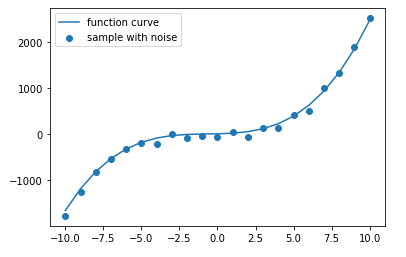
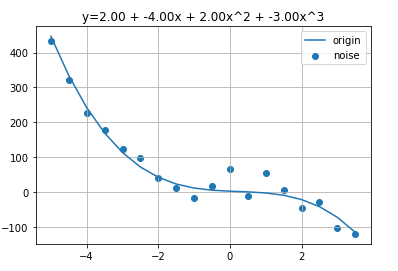
update gd

Changed region(s): [[0.0, 0.0311, 0.9648, 0.965], [0.6633, 0.6226, 0.6935, 0.6537]]

diff --git a/source/_posts/gradient-descent.md b/source/_posts/gradient-descent.md
@@ -15,41 +15,51 @@ tags:
 
 ## 原理
 
-首先确定拟合曲线的函数是怎样的，这里用一元J次方程：
+首先确定拟合曲线的函数是怎样的，这里用一元k次方程：
 
-$y(w_0,w_1...w_j) = w_0 + w_1 x + w_2 x^2 ... + w_j x^j$
+$y(w_0,w_1...w_k) = w_0 + w_1 x + w_2 x^2 ... + w_k x^k = \sum_{n=0}^{k} {w_n}{x^n}$
 
 然后，确定使用最小二乘损失函数：
 
-$L = \sum_{i=0}^{j} \frac{1}{2} (\hat{y_i} - 𝑦_i) ^ 2$
+$L = \sum_{i=0}^{j} \frac{1}{2j} (\hat{y_i} - 𝑦_i) ^ 2$
 
 这里的$\hat{y}$是观测值, $y_i$是理论值(ground truth)，$j$是一次迭代的样本个数。
 
 梯度下降优化，就是对loss函数的每一个w权重分量分别计算梯度，然后每次迭代更新一次梯度。
 
-对于每个w权重的梯度，也就是每个w的偏导数，计算公式是：$\frac{dL}{dw_k}$
+对于每个w权重的梯度，也就是每个$w_g$的偏导数，计算公式是：$\frac{d}{dw_g}L = \frac{d}{dw_g}\sum_{i=0}^{j} \frac{1}{2j} (\hat{y_i} - 𝑦_i) ^ 2$
 
-这里可以使用链式法则，设$a = \frac{1}{2} (\hat{y} - 𝑦) ^ 2$
+这里以$k = 2$, g为1和2的情况为例展开推导，首先算出$(\hat{y} - y)^2 = $
 
-则 $\frac{dL}{dw_k}$ = $\frac{dL}{da} * \frac{da}{dw_k}$
+$( w_0^2 + w_0w_1x + w0w_2^2 - w_0y$
 
-$\frac{dL}{da} = 2a$
+$+ w_0w_1x + w_1^2x^2 + w_1w_2x^3 - w_1xy$
 
-$\frac{da}{dw_k} = \frac{d}{dw_k} \frac{1}{2} (\sum_{j=0}^{n} w_j x^j - y) = x^k (\sum_{i=0}^{j} w_ix^i - y)$
+$+ w_0w_2x^2 + w_1w_2x^3 + w_2^2x^4 - w_2x^2y$
 
-这里以$k = 2$为例展开推导:
+$- w_0y - w_1xy - w_2x^2y + y^2)$
 
-$\frac{da}{dw_2} = \frac{1}{2} (2w_0x^2 + 2w_1x^3 +2w_2x^4 - 2x^2y) = x^2(w_0 + w_1x + w_2x^2 - y)$
+对$w_1$求导后, 得: 
 
-最终得$\frac{dL}{dw_k} = 2x^k (\sum_{i=0}^{j} w_ix^i - y_i)$
+$= (w_0x + w_0x + 2w_1x^2 + w_2x^3 - xy + w_2x^3 - xy)$
 
-因此对于每次batch size为$b$的迭代权重$w_k$的梯度为:
+$= (2w_0x + 2w_1x^2 + 2w_2x^3 - 2xy)$
 
-$gradient(w_k) = \sum_{i=1}^{b}  x_i^k (\sum_{j=0}^{n} w_j x_i^j - y_i)$
+$= 2x(w_0 + w_1x + w_2x^2 - y)$
+
+对$w_2$求导后, 得: 
+
+$= 2x^2(w_0 + w_1x + w_2x^2 - y)$
+
+所以 $\frac{d}{dw_g}L = x^g(\sum_{n=0}^{k} {w_n}{x^n} - y)$
+
+对于每次迭代权重$w_k$的梯度为:
+
+$gradient(w_g) = \sum_{i=1}^{j} \frac{1}{j} x^g(\sum_{n=0}^{k} {w_n}{x^n} - y)$
 
 下面就是权重更新的公式：
 
-$w_k = w_k - \epsilon \frac{dL}{d w_k}$
+$w_k = w_k - \epsilon \frac{dL}{d w_g}$
 
 其中 $\epsilon$ 为学习率。
 
@@ -62,18 +72,12 @@ import math
 import numpy as np
 import matplotlib.pyplot as plt
 
-# 假设曲线方程 2x^3 + 4x^2 + 7x + 1
-ground_truth_coeff = [2, 4, 7, 2]
-
-ground_truth_x = np.linspace(-10, 10, 21)
-ground_truth_y = np.polyval(ground_truth_coeff, ground_truth_x)
+# -3x^3 + 2x^2 + -4x + 2
+ground_truth_w = [-3, 2, -4, 2]
+ground_truth_x = np.arange(-5, 4, 0.5)
+ground_truth_y = np.polyval(ground_truth_w, ground_truth_x)
 # 加噪音
-ground_truth_y_noise = [y + np.random.randn() * 100 for y in ground_truth_y]
-
-plt.plot(ground_truth_x, ground_truth_y, label='function curve')
-plt.scatter(ground_truth_x, y=ground_truth_y_noise, label='sample with noise')
-plt.legend()
-plt.show()
+ground_truth_y_noise = [y + np.random.randn() * 30 for y in ground_truth_y]
 ```
 
 ![Sample](/img/gd_sample.png)
@@ -87,66 +91,57 @@ import math
 import numpy as np
 import matplotlib.pyplot as plt
 
-# 学习率
-eps = 0.0000001
-# 迭代次数
-epochs = 10000
 # 没做SGD, 每次使用所有样本计算梯度
 batch_size = len(ground_truth_y)
-# 随机初始化系数权重
-weights = np.random.randn(4)
+# 学习率
+eps = [0.0001, 0.0001, 0.0001]
+# 随机初始化系数权重, 权重个数-1即为N次方的N
+# weights = [np.random.randn(4), np.random.randn(3), np.random.randn(2)]
+weights = [np.zeros(4), np.zeros(3), np.zeros(2)]
+# 迭代次数
+epochs = [2000, 2000, 2000]
 
-def evaluate_loss(weights, x, y):
+def evaluate_loss(x, y, weights):
     s = 0
-    bs = len(x)
+    bs = len(y)
     for i in range(bs):
         s = s + (np.polyval(weights, x[i]) - y[i]) ** 2
     return s / bs;
 
-def evaluate_gradient(x, y, weights):
+def evaluate_gradient(x, y, weights, epsilon):
     power = len(weights)
     for g in range(len(weights)):
-        p = 0
         gradient = 0
         for i in range(batch_size):
-            gradient += (x[i] ** (power - 1 - g)) * (np.polyval(weights, x[i]) - y[i])
-        weights[g] = weights[g] - eps * gradient
-    
-for i in range(epochs):
-    evaluate_gradient(ground_truth_x, ground_truth_y_noise, weights)
-    if i % 1000 == 0:
-        loss = evaluate_loss(weights, ground_truth_x, ground_truth_y_noise)
-        print(f'epoch:{i} loss:{loss}')
+            gradient += x[i] ** (power - 1 - g) * (np.polyval(weights, x[i]) - y[i]) / batch_size
+        weights[g] = weights[g] - epsilon * gradient
         
-# 画图
-result_y = np.polyval(weights, ground_truth_x)
+def fit_curve(x, y, weights, epochs, epsilon):
+    for i in range(epochs):
+        evaluate_gradient(x, y, weights, epsilon)
+        if i % 100 == 0:
+            loss = evaluate_loss(x, y, weights)
+            print(f'epoch:{i:8} loss:{loss:.4f}')
 
-plt.scatter(ground_truth_x, ground_truth_y_noise, label='sample')
-plt.plot(ground_truth_x, ground_truth_y, label='origin')
-plt.plot(ground_truth_x, result_y, label='result')
-plt.legend()
-plt.show()
+for i in range(len(weights)):
+    fit_curve(ground_truth_x, ground_truth_y_noise, weights[i], epochs[i], eps[i])
+
 ```
 
-输出结果:
-
-```text
-epoch:0 loss:873603.4097810199
-epoch:1000 loss:3316.4481094125726
-epoch:2000 loss:3313.4402820033943
-epoch:3000 loss:3312.0804748041433
-epoch:4000 loss:3310.724517130056
-epoch:5000 loss:3309.372307816155
-epoch:6000 loss:3308.0238104382984
-epoch:7000 loss:3306.6789893506993
-epoch:8000 loss:3305.337809662464
-epoch:9000 loss:3304.0002372196905
-```
-
-可以看到其实在第1000个epoch, loss就不怎么降了, 还是强行跑了10k个。
-
-最终输出的权重：array([2.12371171, 3.71908694, 1.83210565, 0.07659884])
-
-图像：
+输出图像：
 
 ![Result](/img/gd_curvefit.png)
+
+## 常见问题
+
+### 训练出现nan
+
+学习率太大, 样本数据y值太大
+
+### loss降不下来
+
+loss下降很小说明优化空间已经不大了, 不会降到1以下的
+
+### 拟合不收敛
+
+可能之一是gradient算错了，比如`x[i]`的指数算错，或者weights的顺序没对应上之类。
